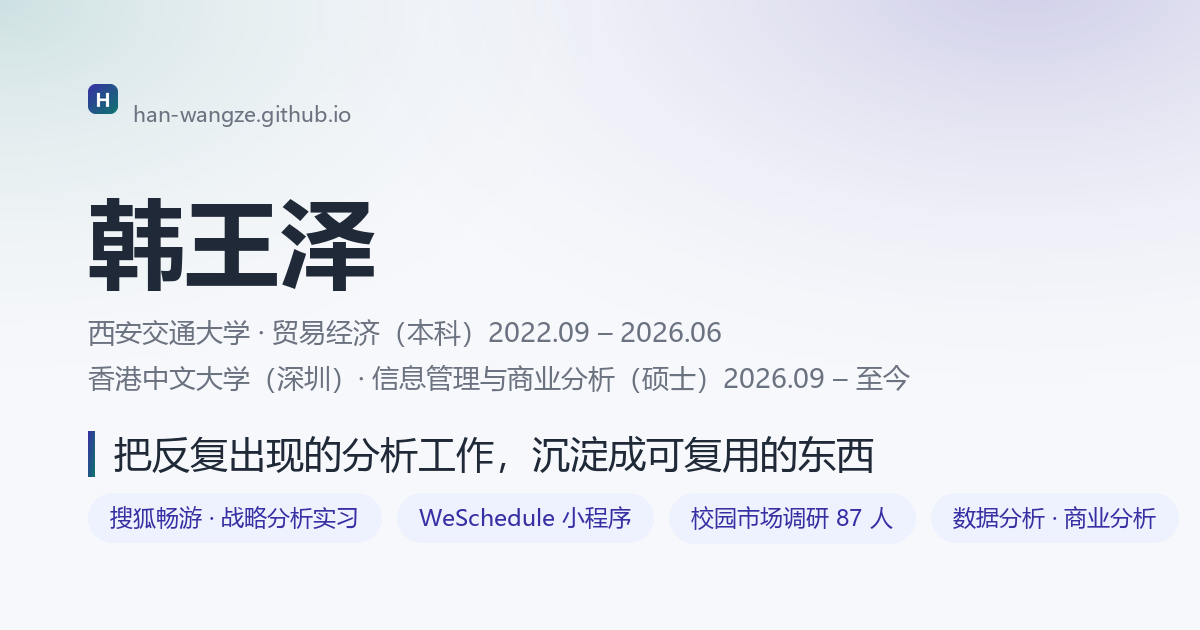
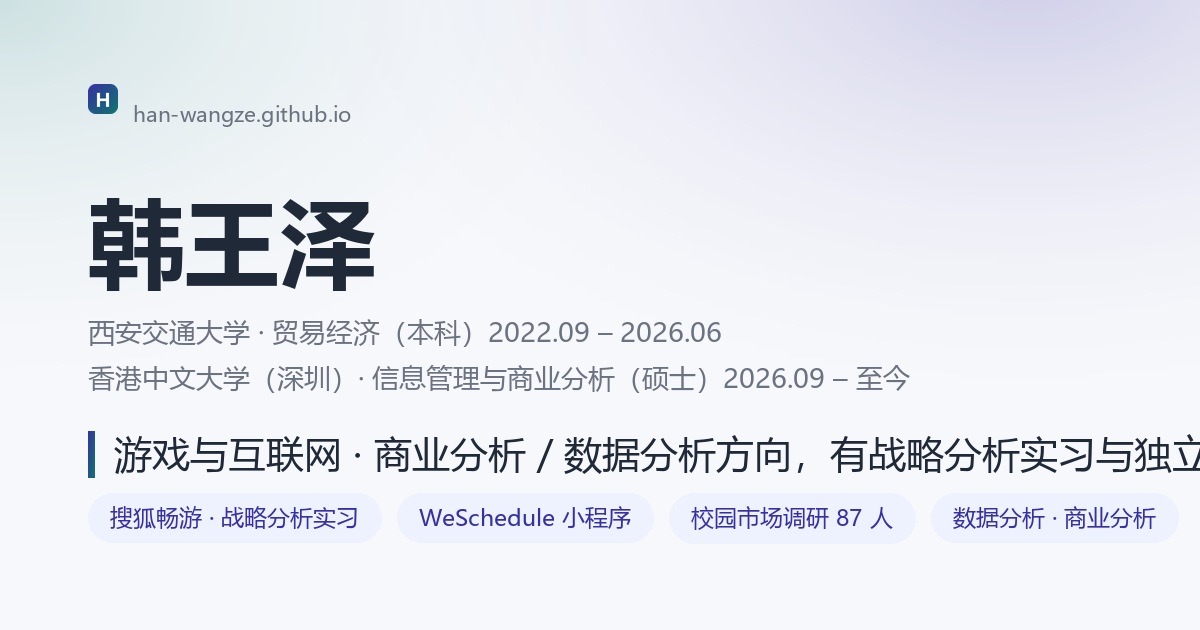
feat(site): 首页信息架构重构 —— 项目经历合并研究、hero 去 AI 味
按用户意见批判吸收，三处方向性重构：

- hero：删「共同主线」抽象句与 2/3/10 数量徽章，换硬定位句
  「游戏与互联网 · 商业分析 / 数据分析方向，有战略分析实习与独立产品实践」；
  CTA 精简为「实习经历」+「查看项目」，GitHub 移出首屏；
  同步 meta description / og:description / twitter:description / og.png TAGLINE 四处。

- 项目经历区：删「一次低成本验证的完整链条」导语与 story 步骤条，
  改为两个门类——WeSchedule 产品项目（含 ①需求验证/②产品实现/③竞争定位 三环节）
  + 研究与写作（学术作品 10 份三类）；删除独立 research section。

- 全站导航：8 页统一由「首页/实习经历/研究与写作/项目/联系」
  改为「首页/实习经历/项目/联系」，research 页高亮移到「项目」。

另：删首页两处 AI 碎碎念（「主证据是…如实呈现」「与求职主线相关性较弱」）；
技能栈按五类归类；站内索引按实习/项目/研究/源码分组；
weschedule 页 shot-3 图注改为「日程列表 · 冲突日程标 ⚠」。

Changed region(s): [[0.0925, 0.6937, 1.0, 0.754]]

diff --git a/index.html b/index.html
@@ -4,7 +4,7 @@
 <meta charset="UTF-8" />
 <meta name="viewport" content="width=device-width, initial-scale=1.0" />
 <title>韩王泽 · 个人主页</title>
-<meta name="description" content="韩王泽的个人主页：商业分析 / 数据分析 / 战略与用户研究方向。搜狐畅游战略分析实习、WeSchedule 小程序与校园市场调研的完整过程记录。" />
+<meta name="description" content="韩王泽的个人主页：游戏与互联网 · 商业分析 / 数据分析方向，有战略分析实习与独立产品实践。" />
 <meta name="author" content="韩王泽" />
 <link rel="icon" href="favicon.svg" type="image/svg+xml" />
 <link rel="icon" href="favicon.ico" sizes="32x32" />
@@ -15,7 +15,7 @@
 <meta property="og:site_name" content="韩王泽 · 个人主页" />
 <meta property="og:locale" content="zh_CN" />
 <meta property="og:title" content="韩王泽 · 个人主页" />
-<meta property="og:description" content="商业分析 / 数据分析 / 战略与用户研究方向。搜狐畅游战略分析实习，以及 WeSchedule 小程序与校园市场调研的完整过程记录。" />
+<meta property="og:description" content="游戏与互联网 · 商业分析 / 数据分析方向，有战略分析实习与独立产品实践。" />
 <meta property="og:url" content="https://han-wangze.github.io/hanwangze/" />
 <meta property="og:image" content="https://han-wangze.github.io/hanwangze/og.png" />
 <meta property="og:image:width" content="1200" />
@@ -23,7 +23,7 @@
 <meta property="og:image:alt" content="韩王泽个人主页：教育经历、实习经历与项目作品" />
 <meta name="twitter:card" content="summary_large_image" />
 <meta name="twitter:title" content="韩王泽 · 个人主页" />
-<meta name="twitter:description" content="商业分析 / 数据分析 / 战略与用户研究方向。搜狐畅游战略分析实习，以及 WeSchedule 小程序与校园市场调研的完整过程记录。" />
+<meta name="twitter:description" content="游戏与互联网 · 商业分析 / 数据分析方向，有战略分析实习与独立产品实践。" />
 <meta name="twitter:image" content="https://han-wangze.github.io/hanwangze/og.png" />
 <style>
   :root{
@@ -97,6 +97,18 @@
   .pcard .go{font-size:13px;font-weight:700;color:var(--primary);margin-top:4px}
   .rk{font-size:12px;font-weight:700;color:var(--primary);letter-spacing:.8px;text-transform:uppercase}
   .pnote{margin-top:16px;font-size:13px;color:var(--muted);border-left:3px solid var(--accent);padding-left:12px;max-width:720px}
+  /* 项目经历：主项目 + 门类 */
+  .proj-block{margin-bottom:30px}
+  .proj-head{display:flex;align-items:center;gap:10px;margin-bottom:10px;flex-wrap:wrap}
+  .proj-head h3{font-size:19px;font-weight:800}
+  .proj-tag{font-size:12px;font-weight:700;color:var(--primary);background:#eef2ff;padding:3px 10px;border-radius:6px}
+  .proj-desc{font-size:14px;color:var(--muted);max-width:720px;margin-bottom:14px}
+  .proj-stages{display:grid;grid-template-columns:repeat(3,1fr);gap:14px}
+  @media(max-width:720px){.proj-stages{grid-template-columns:1fr}}
+  .stage{background:var(--card);border:1px solid var(--line);border-radius:14px;padding:16px;box-shadow:var(--shadow);display:flex;flex-direction:column;gap:6px;transition:.15s}
+  .stage:hover{border-color:var(--primary);transform:translateY(-2px)}
+  .stage b{font-size:14.5px}
+  .stage span{font-size:13px;color:var(--muted)}
   .tags{display:flex;flex-wrap:wrap;gap:6px}
   .tag,.chip{font-size:12px;background:#f1f5f9;color:#475569;border-radius:8px;padding:4px 10px}
   .story{display:flex;align-items:stretch;gap:12px;margin-bottom:20px;flex-wrap:wrap}
@@ -110,10 +122,17 @@
   .link:hover{border-color:var(--primary);transform:translateY(-1px)}
   .link .em{font-size:18px}
   .skills{display:flex;flex-wrap:wrap;gap:8px}
+  .skill-group{margin-bottom:16px}
+  .skill-group:last-child{margin-bottom:0}
+  .sg-label{font-size:13px;font-weight:700;color:var(--primary);margin-bottom:8px;letter-spacing:.3px}
   .sitemap{margin-top:18px;font-size:14px;color:var(--muted);line-height:2}
   .sitemap b{color:var(--ink);font-weight:600}
   .sitemap a{color:var(--muted);border-bottom:1px solid transparent;transition:.15s}
   .sitemap a:hover{color:var(--primary);border-bottom-color:var(--primary)}
+  .sitemap .sg{margin-bottom:8px}
+  .sitemap .sg:last-child{margin-bottom:0}
+  .sitemap .sg b{display:inline-block;min-width:52px;color:var(--ink);font-weight:700}
+  .sitemap .sg a{margin-right:16px}
   /* 研究卡 */
   .rcards{display:grid;grid-template-columns:repeat(3,1fr);gap:14px}
   @media(max-width:760px){.rcards{grid-template-columns:1fr}}
@@ -146,7 +165,6 @@
     <div class="navlinks">
       <a class="on" href="index.html">首页</a>
       <a href="#about">实习经历</a>
-      <a href="research.html">研究与写作</a>
       <a href="#projects">项目</a>
       <a href="#links">联系</a>
     </div>
@@ -157,20 +175,14 @@
   <div class="wrap">
     <div class="eyebrow">Han Wangze · Personal Homepage</div>
     <h1>韩王泽</h1>
-    <p class="sub">我的项目有一条共同主线：<b>把反复出现的分析工作，沉淀成可复用的东西</b>：87 人问卷调研、一个微信小程序、49 个 Python 分析脚本。<br><span style="font-size:15px;color:var(--muted)">求职方向：游戏与互联网行业的商业分析、数据分析、战略与用户研究。</span></p>
+    <p class="sub">游戏与互联网 · 商业分析 / 数据分析方向，有战略分析实习与独立产品实践。</p>
     <div class="edu">
       <span><b>香港中文大学（深圳）</b> · 信息管理与商业分析 · 全日制硕士在读 · 2026.09 入学</span>
       <span><b>西安交通大学</b> · 经济与金融学院 · 贸易经济 · 全日制本科 · 2022.09 – 2026.06</span>
     </div>
-    <div class="badges">
-      <span class="badge"><b>2</b> 段实习（战略分析 · 软件测试）</span>
-      <span class="badge"><b>3</b> 个项目专题</span>
-      <span class="badge"><b>10</b> 份研究与写作</span>
-    </div>
     <div class="cta">
       <a class="btn primary" href="experience-cyou.html">实习经历</a>
       <a class="btn ghost" href="#projects">查看项目</a>
-      <a class="btn ghost" href="https://github.com/han-wangze" target="_blank" rel="noopener">GitHub</a>
     </div>
   </div>
 </header>
@@ -180,7 +192,6 @@
     <div class="sec-head">
       <div class="k">Experience · 实习经历</div>
       <h2>实习经历</h2>
-      <p>主证据是搜狐畅游的战略分析实习；另有一段学校安排的工业软件功能测试实习（3 周），如实呈现。</p>
     </div>
     <div class="tl">
       <div class="tli hi">
@@ -206,76 +217,67 @@
 <section id="projects" class="alt">
   <div class="wrap">
     <div class="sec-head">
-      <div class="k">Projects · 项目</div>
-      <h2>项目</h2>
-      <p>一次低成本验证的完整链条：预调研回答「值不值得做」→ MVP 回答「能不能用」→ 竞争定位回答「凭什么存在」。</p>
+      <div class="k">Projects · 项目经历</div>
+      <h2>项目经历</h2>
     </div>
-    <div class="story">
-      <div class="step"><b>① 调研验证</b><span>87 人预调研，确认痛点与需求优先级</span></div>
-      <div class="arr">→</div>
-      <div class="step"><b>② 产品实现</b><span>WeSchedule 小程序 MVP，真机验证</span></div>
-      <div class="arr">→</div>
-      <div class="step"><b>③ 竞争定位</b><span>对标生态内工具，明确「日程治理」方向</span></div>
-    </div>
-    <div class="projects">
-      <a class="pcard" href="report.html">
-        <div class="rk">用户调研 · 需求验证</div>
-        <div class="t">校园市场调研报告</div>
-        <div class="tags"><span class="tag">87 份问卷</span><span class="tag">因子分析</span><span class="tag">交叉分析</span><span class="tag">开放题文本</span></div>
-        <div class="d">面向 87 名西交大学生：信息过载遗漏 80%、手动录入繁琐 45.6%、「消息转日程」接受度 87.4%。WeSchedule 的立项依据。</div>
-        <div class="go">阅读报告 →</div>
-      </a>
-      <a class="pcard" href="weschedule.html">
-        <div class="rk">产品实现 · 微信小程序</div>
-        <div class="t">WeSchedule</div>
-        <div class="tags"><span class="tag">云开发</span><span class="tag">DeepSeek</span><span class="tag">冲突检测</span><span class="tag">评测闭环</span></div>
-        <div class="d">把群聊消息变成可管理的日程：复制 → 自动解析 → 确认保存 → 订阅消息提醒，带软/硬分级冲突检测与预备提醒；自建 100 条语料评测，端到端准确率 75%。</div>        <div class="go">查看项目 →</div>
-      </a>
-      <a class="pcard" href="competition.html">
-        <div class="rk">竞争定位 · 生态分析</div>
-        <div class="t">竞争格局与产品定位</div>
-        <div class="tags"><span class="tag">竞品对标</span><span class="tag">平台约束</span><span class="tag">防御性思考</span></div>
-        <div class="d">微信生态内已有小微、元宝、滴答清单等"消息 → 提醒"工具。这一节说明为什么把价值放在冲突检测与 DDL 缓冲这一层，以及在什么条件下会被平台原生能力稀释。</div>
-        <div class="go">查看分析 →</div>
-      </a>
-    </div>
-    <p class="pnote">关于证据强度：调研为预调研性质——87 份、方便抽样、单一学校，结论是「值得做 MVP」而非「需求已被证明」；这也是随后选择真机验证、而非直接推广的原因。</p>
-  </div>
-</section>
 
-<section id="research">
-  <div class="wrap">
-    <div class="sec-head">
-      <div class="k">Research · 研究与写作</div>
-      <h2>研究与写作</h2>
-      <p>10 份学术与课程作品，分三类：计量与实证、社会调查、案例与文献。每份按「研究问题 — 方法与数据 — 主要发现」呈现。</p>
+    <div class="proj-block">
+      <div class="proj-head">
+        <h3>WeSchedule 日程助手</h3>
+        <span class="proj-tag">产品项目</span>
+      </div>
+      <p class="proj-desc">把微信群聊消息变成可管理的日程：复制 → 自动解析 → 确认保存 → 订阅消息提醒，带软/硬分级冲突检测与预备提醒；自建 100 条语料评测，端到端准确率 75%。</p>
+      <div class="proj-stages">
+        <a class="stage" href="report.html">
+          <b>① 需求验证</b>
+          <span>87 人校园调研：信息过载遗漏 80%、接受度 87.4%，是立项依据。</span>
+        </a>
+        <a class="stage" href="weschedule.html">
+          <b>② 产品实现</b>
+          <span>小程序 MVP 真机上线，冲突检测 + 预备提醒 + 评测闭环。</span>
+        </a>
+        <a class="stage" href="competition.html">
+          <b>③ 竞争定位</b>
+          <span>对标小微 / 元宝 / 滴答清单，明确「日程治理」差异化。</span>
+        </a>
+      </div>
     </div>
-    <div class="rcards">
-      <a class="rcard" href="research.html#quant">
-        <div class="rk">计量与实证</div>
-        <div class="rt">人工智能采用对企业多元化经营的影响</div>
-        <div class="tags"><span class="tag">双向固定效应</span><span class="tag">多期 DID</span><span class="tag">PSM</span></div>
-        <div class="rd">2010–2024 年 A 股上市公司样本；把多元化结构分解为相关 / 不相关，识别因果效应。</div>
-        <div class="rf">看这一类 →</div>
-      </a>
-      <a class="rcard" href="research.html#survey">
-        <div class="rk">社会调查</div>
-        <div class="rt">一刻钟便民生活圈下「小修小补」消费调查 · 腾飞杯二等奖</div>
-        <div class="tags"><span class="tag">727 份问卷</span><span class="tag">SPSS 信效度</span><span class="tag">回归分析</span></div>
-        <div class="rd">居民问卷加从业者量表双渠道，定位影响消费满意度的因素。</div>
-        <div class="rf">看这一类 →</div>
-      </a>
-      <a class="rcard" href="research.html#case">
-        <div class="rk">案例与文献</div>
-        <div class="rt">空间计算起源与发展</div>
-        <div class="tags"><span class="tag">文献计量</span><span class="tag">Web of Science</span><span class="tag">40+ 文献</span></div>
-        <div class="rd">梳理概念边界、关键技术层与演化阶段。</div>
-        <div class="rf">看这一类 →</div>
-      </a>
+
+    <div class="proj-block">
+      <div class="proj-head">
+        <h3>研究与写作</h3>
+        <span class="proj-tag">学术作品 · 10 份</span>
+      </div>
+      <p class="proj-desc">计量实证 / 社会调查 / 案例文献三类，每份按「研究问题 — 方法与数据 — 主要发现」呈现。</p>
+      <div class="rcards">
+        <a class="rcard" href="research.html#quant">
+          <div class="rk">计量与实证</div>
+          <div class="rt">人工智能采用对企业多元化经营的影响</div>
+          <div class="tags"><span class="tag">双向固定效应</span><span class="tag">多期 DID</span><span class="tag">PSM</span></div>
+          <div class="rd">2010–2024 年 A 股上市公司样本；把多元化结构分解为相关 / 不相关，识别因果效应。</div>
+          <div class="rf">看这一类 →</div>
+        </a>
+        <a class="rcard" href="research.html#survey">
+          <div class="rk">社会调查</div>
+          <div class="rt">一刻钟便民生活圈下「小修小补」消费调查 · 腾飞杯二等奖</div>
+          <div class="tags"><span class="tag">727 份问卷</span><span class="tag">SPSS 信效度</span><span class="tag">回归分析</span></div>
+          <div class="rd">居民问卷加从业者量表双渠道，定位影响消费满意度的因素。</div>
+          <div class="rf">看这一类 →</div>
+        </a>
+        <a class="rcard" href="research.html#case">
+          <div class="rk">案例与文献</div>
+          <div class="rt">空间计算起源与发展</div>
+          <div class="tags"><span class="tag">文献计量</span><span class="tag">Web of Science</span><span class="tag">40+ 文献</span></div>
+          <div class="rd">梳理概念边界、关键技术层与演化阶段。</div>
+          <div class="rf">看这一类 →</div>
+        </a>
+      </div>
+      <div class="cta" style="margin-top:18px">
+        <a class="btn ghost" href="research.html">查看全部 10 份 →</a>
+      </div>
     </div>
-    <div class="cta" style="margin-top:20px">
-      <a class="btn ghost" href="research.html">查看全部 10 份 →</a>
-    </div>
+
+    <p class="pnote">关于证据强度：调研为预调研性质——87 份、方便抽样、单一学校，结论是「值得做 MVP」而非「需求已被证明」；这也是随后选择真机验证、而非直接推广的原因。</p>
   </div>
 </section>
 
@@ -285,7 +287,6 @@
       <div class="k">More · 其他经历</div>
       <h2>其他经历</h2>
     </div>
-    <div class="more-lead">与求职主线相关性较弱，只列实际做过的事。</div>
     <div class="more">
       <div class="mrow">
         <div class="mw">2024.07 – 2025.05</div>
@@ -333,17 +334,40 @@
       <h2>技能栈</h2>
     </div>
     <div class="card">
-      <div class="skills">
-        <span class="chip">Python / pandas / scikit-learn</span>
-        <span class="chip">SQL</span>
-        <span class="chip">Sensor Tower / ADX 等第三方数据平台</span>
-        <span class="chip">市场研究 · 用户调研</span>
-        <span class="chip">概念测试与问卷设计</span>
-        <span class="chip">量化建模与指标体系</span>
-        <span class="chip">网络爬虫（requests / bilibili-api）</span>
-        <span class="chip">微信小程序 · 云开发</span>
-        <span class="chip">Excel / PPT 研究成稿</span>
-        <span class="chip">英语：雅思 6.5 / 六级 595</span>
+      <div class="skill-group">
+        <div class="sg-label">数据分析</div>
+        <div class="skills">
+          <span class="chip">Python / pandas / scikit-learn</span>
+          <span class="chip">SQL</span>
+          <span class="chip">量化建模与指标体系</span>
+        </div>
+      </div>
+      <div class="skill-group">
+        <div class="sg-label">市场研究</div>
+        <div class="skills">
+          <span class="chip">市场研究 · 用户调研</span>
+          <span class="chip">概念测试与问卷设计</span>
+        </div>
+      </div>
+      <div class="skill-group">
+        <div class="sg-label">数据工具</div>
+        <div class="skills">
+          <span class="chip">Sensor Tower / ADX 等第三方数据平台</span>
+          <span class="chip">网络爬虫（requests / bilibili-api）</span>
+        </div>
+      </div>
+      <div class="skill-group">
+        <div class="sg-label">产品工程</div>
+        <div class="skills">
+          <span class="chip">微信小程序 · 云开发</span>
+        </div>
+      </div>
+      <div class="skill-group">
+        <div class="sg-label">语言与办公</div>
+        <div class="skills">
+          <span class="chip">Excel / PPT 研究成稿</span>
+          <span class="chip">英语：雅思 6.5 / 六级 595</span>
+        </div>
       </div>
     </div>
   </div>
@@ -360,15 +384,10 @@
       <a class="link" href="https://github.com/han-wangze" target="_blank" rel="noopener"><span class="em">💻</span> GitHub · han-wangze</a>
     </div>
     <div class="sitemap">
-      <b>站内索引：</b>
-      <a href="experience-cyou.html">实习 · 搜狐畅游</a> ·
-      <a href="experience-zyf.html">实习 · 中服云</a> ·
-      <a href="research.html">研究与写作</a> ·
-      <a href="weschedule.html">WeSchedule</a> ·      <a href="report.html">调研报告（提要）</a> ·
-      <a href="weschedule-eval.html">WeSchedule 评测报告</a> ·
-      <a href="report-full.html">调研报告（全文）</a> ·
-      <a href="competition.html">竞争格局与定位</a> ·
-      <a href="https://github.com/han-wangze/hanwangze" target="_blank" rel="noopener">本站源码</a>
+      <div class="sg"><b>实习</b><a href="experience-cyou.html">搜狐畅游</a><a href="experience-zyf.html">中服云</a></div>
+      <div class="sg"><b>项目</b><a href="weschedule.html">WeSchedule</a><a href="report.html">调研报告（提要）</a><a href="report-full.html">调研报告（全文）</a><a href="weschedule-eval.html">评测报告</a><a href="competition.html">竞争定位</a></div>
+      <div class="sg"><b>研究</b><a href="research.html">研究与写作（10 份）</a></div>
+      <div class="sg"><b>源码</b><a href="https://github.com/han-wangze/hanwangze" target="_blank" rel="noopener">本站源码</a></div>
     </div>
   </div>
 </section>

diff --git a/weschedule.html b/weschedule.html
@@ -138,7 +138,6 @@
     <div class="navlinks">
       <a href="index.html">首页</a>
       <a href="experience-cyou.html">实习经历</a>
-      <a href="research.html">研究与写作</a>
       <a class="on" href="index.html#projects">项目</a>
       <a href="index.html#links">联系</a>
     </div>
@@ -395,8 +394,8 @@
           <figcaption>解析确认 · 可编辑日期时间</figcaption>
         </figure>
         <figure class="shot">
-          <img src="img/shot-3.png" alt="日程列表页：已保存的日程" loading="lazy" decoding="async" width="640" height="1435">
-          <figcaption>日程列表 · 已保存日程</figcaption>
+          <img src="img/shot-3.png" alt="日程列表页：冲突日程带警示标记" loading="lazy" decoding="async" width="640" height="1435">
+          <figcaption>日程列表 · 冲突日程标 ⚠</figcaption>
         </figure>
       </div>
     </div>

diff --git a/research.html b/research.html
@@ -108,8 +108,7 @@
     <div class="navlinks">
       <a href="index.html">首页</a>
       <a href="experience-cyou.html">实习经历</a>
-      <a class="on" href="research.html">研究与写作</a>
-      <a href="index.html#projects">项目</a>
+      <a class="on" href="index.html#projects">项目</a>
       <a href="index.html#links">联系</a>
     </div>
   </div>

diff --git a/experience-cyou.html b/experience-cyou.html
@@ -146,7 +146,6 @@
     <div class="navlinks">
       <a href="index.html">首页</a>
       <a class="on" href="experience-cyou.html">实习经历</a>
-      <a href="research.html">研究与写作</a>
       <a href="index.html#projects">项目</a>
       <a href="index.html#links">联系</a>
     </div>

diff --git a/experience-zyf.html b/experience-zyf.html
@@ -136,7 +136,6 @@
     <div class="navlinks">
       <a href="index.html">首页</a>
       <a class="on" href="experience-cyou.html">实习经历</a>
-      <a href="research.html">研究与写作</a>
       <a href="index.html#projects">项目</a>
       <a href="index.html#links">联系</a>
     </div>

diff --git a/weschedule-eval.html b/weschedule-eval.html
@@ -105,7 +105,6 @@
     <div class="navlinks">
       <a href="index.html">首页</a>
       <a href="experience-cyou.html">实习经历</a>
-      <a href="research.html">研究与写作</a>
       <a class="on" href="index.html#projects">项目</a>
       <a href="index.html#links">联系</a>
     </div>

diff --git a/competition.html b/competition.html
@@ -97,7 +97,6 @@
     <div class="navlinks">
       <a href="index.html">首页</a>
       <a href="experience-cyou.html">实习经历</a>
-      <a href="research.html">研究与写作</a>
       <a class="on" href="index.html#projects">项目</a>
       <a href="index.html#links">联系</a>
     </div>

diff --git a/report.html b/report.html
@@ -91,7 +91,6 @@
     <div class="navlinks">
       <a href="index.html">首页</a>
       <a href="experience-cyou.html">实习经历</a>
-      <a href="research.html">研究与写作</a>
       <a class="on" href="index.html#projects">项目</a>
       <a href="index.html#links">联系</a>
     </div>
